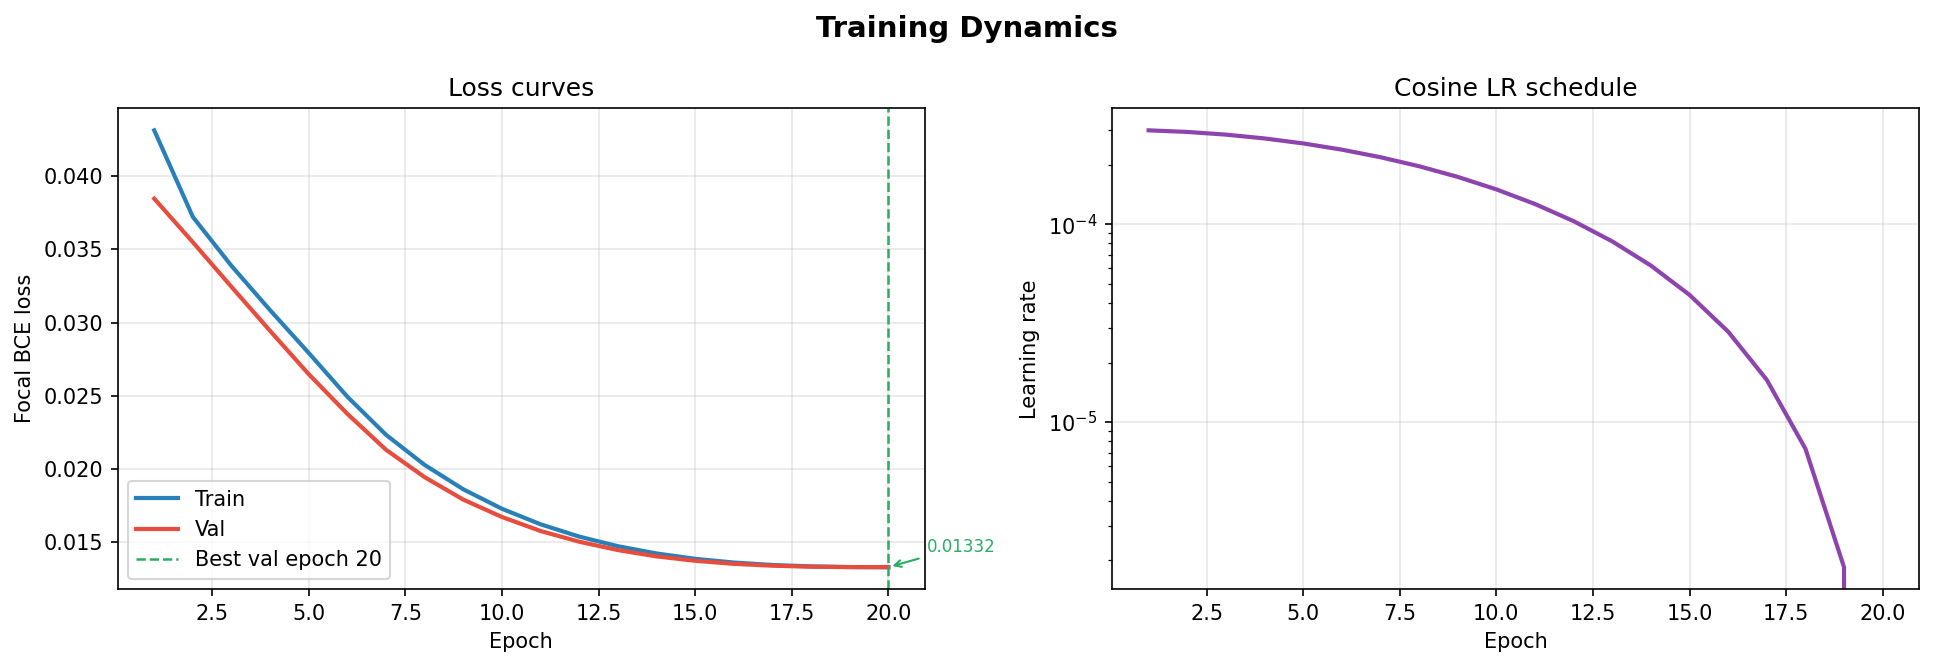
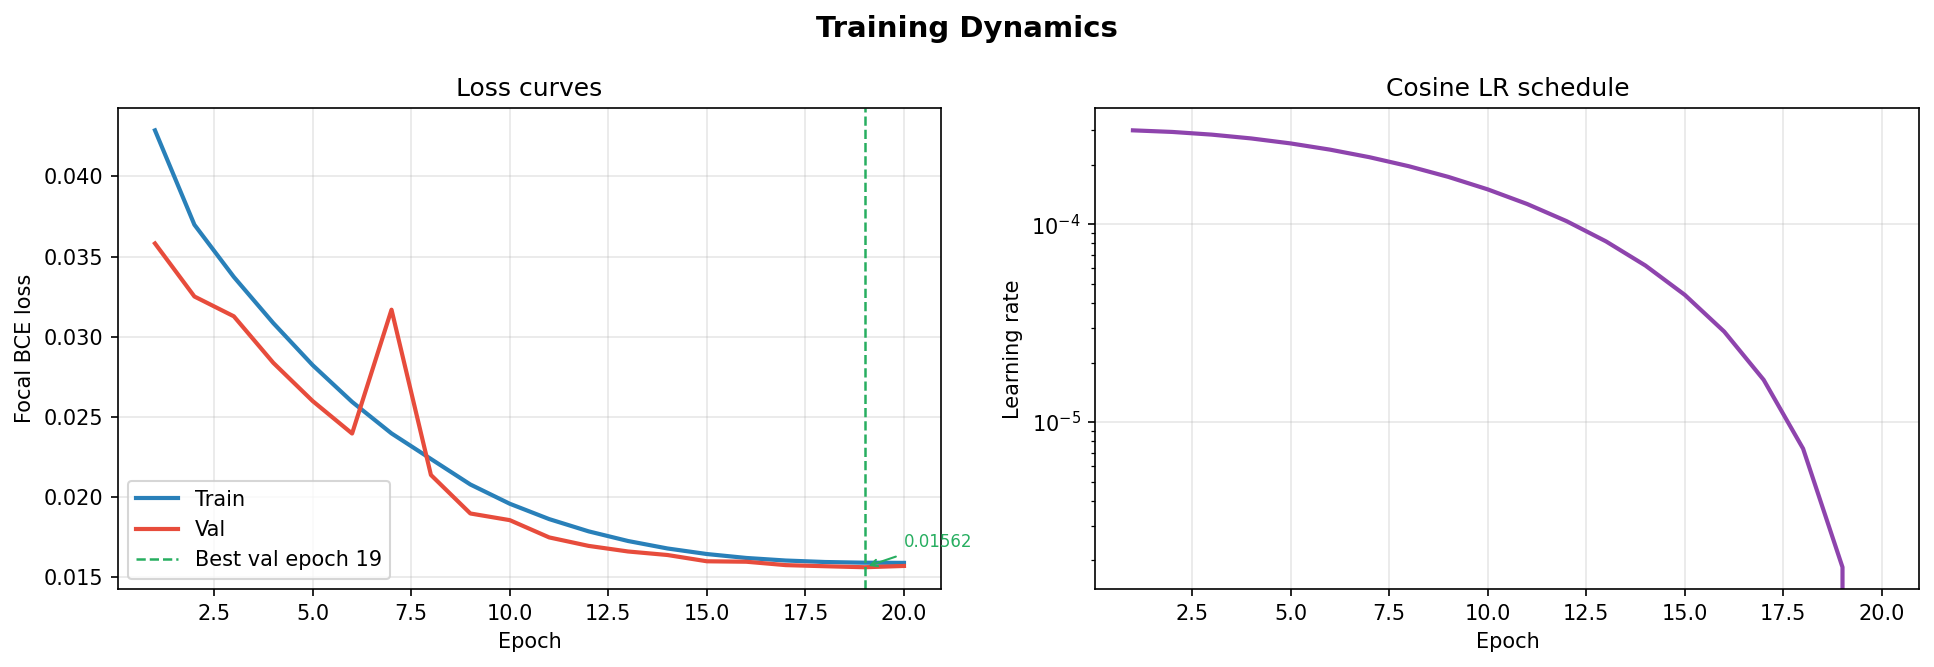
Refactor code structure for improved readability and maintainability

diff --git a/vicon2mano/real_data.py b/vicon2mano/real_data.py
@@ -77,6 +77,9 @@ class RealDataConfig:
     # Unit conversion: CSV stores mm, MANO works in metres.
     marker_scale: float = 1e-3
 
+    # Which hand to extract from wide-format CSVs ("left" or "right").
+    side: str = "left"
+
     # Augmentation — keep mild; real data already has natural occlusions.
     dropout_max: int = 3     # drop up to this many markers per frame
     ghost_max: int = 2       # add up to this many ghost markers
@@ -158,11 +161,12 @@ def _load_csv(
     csv_path: str | Path,
     cfg: RealDataConfig,
 ) -> list[tuple[np.ndarray, np.ndarray]]:
-    """Parse the labeled CSV and return a list of (markers_m, joint_pos) tuples.
+    """Parse a Vicon CSV and return (markers_m, joint_pos) tuples.
 
-    Only frames with at least cfg.min_joints observed MANO joints are kept.
-    Frames are returned in ascending frame-index order (preserving temporal
-    order for the train/val split).
+    Supports two formats, auto-detected from column names:
+    - Long format: columns ``frame, marker, x_mm, y_mm, z_mm``
+    - Wide format: Vicon Nexus export with columns ``_Frame, MarkerName_X, _Y, _Z, …``
+                   (one row per frame, all markers as column triplets)
     """
     try:
         import pandas as pd
@@ -173,6 +177,16 @@ def _load_csv(
         ) from exc
 
     df = pd.read_csv(csv_path)
+    if "_Frame" in df.columns:
+        return _load_wide_csv(df, cfg)
+    return _load_long_csv(df, cfg)
+
+
+def _load_long_csv(
+    df,
+    cfg: RealDataConfig,
+) -> list[tuple[np.ndarray, np.ndarray]]:
+    """Parse long-format CSV (frame, marker, x_mm, y_mm, z_mm)."""
     required = {"frame", "marker", "x_mm", "y_mm", "z_mm"}
     if not required.issubset(df.columns):
         raise ValueError(
@@ -182,14 +196,71 @@ def _load_csv(
     scale = cfg.marker_scale
     frames: list[tuple[np.ndarray, np.ndarray]] = []
 
-    for frame_id, group in df.groupby("frame", sort=True):
+    for _frame_id, group in df.groupby("frame", sort=True):
         marker_names = group["marker"].tolist()
         positions_m = group[["x_mm", "y_mm", "z_mm"]].to_numpy(np.float32) * scale
 
-        # Build (21, 3) joint position array; NaN where unobserved.
         joint_pos = np.full((21, 3), np.nan, dtype=np.float32)
         n_observed = 0
         for name, pos in zip(marker_names, positions_m):
+            if name in MARKER_TO_MANO:
+                joint_pos[MARKER_TO_MANO[name]] = pos
+                n_observed += 1
+
+        if n_observed < cfg.min_joints:
+            continue
+
+        frames.append((positions_m, joint_pos))
+
+    return frames
+
+
+def _load_wide_csv(
+    df,
+    cfg: RealDataConfig,
+) -> list[tuple[np.ndarray, np.ndarray]]:
+    """Parse wide-format Vicon Nexus CSV.
+
+    Column layout: ``_Frame, _Sub Frame, MarkerName_X, _Y, _Z, …``
+    Marker names contain ``_Left`` or ``_Right``; cfg.side selects which hand.
+    The suffix is stripped before looking up MARKER_TO_MANO.
+    """
+    suffix = f"_{cfg.side.capitalize()}"   # "_Left" or "_Right"
+    all_cols = list(df.columns)
+
+    # Find (name, x_idx, y_idx, z_idx) for each marker on the requested side
+    triplets: list[tuple[str, int, int, int]] = []
+    for i, col in enumerate(all_cols):
+        if col.endswith("_X") and suffix in col:
+            bare = col.replace("_X", "").replace(suffix, "")  # e.g. "Palm2"
+            triplets.append((bare, i, i + 1, i + 2))
+
+    if not triplets:
+        raise ValueError(
+            f"No '{suffix}' markers found in wide CSV. "
+            f"Available columns: {all_cols[:20]}"
+        )
+
+    scale = cfg.marker_scale
+    frames: list[tuple[np.ndarray, np.ndarray]] = []
+
+    for _, row in df.iterrows():
+        positions: list[np.ndarray] = []
+        names: list[str] = []
+        for bare, xi, yi, zi in triplets:
+            x, y, z = row.iloc[xi], row.iloc[yi], row.iloc[zi]
+            if not (np.isnan(x) or np.isnan(y) or np.isnan(z)):
+                positions.append([float(x), float(y), float(z)])
+                names.append(bare)
+
+        if not positions:
+            continue
+
+        positions_m = np.array(positions, dtype=np.float32) * scale
+
+        joint_pos = np.full((21, 3), np.nan, dtype=np.float32)
+        n_observed = 0
+        for name, pos in zip(names, positions_m):
             if name in MARKER_TO_MANO:
                 joint_pos[MARKER_TO_MANO[name]] = pos
                 n_observed += 1

diff --git a/vicon2mano/fitter.py b/vicon2mano/fitter.py
@@ -29,6 +29,16 @@ import torch
 import torch.nn as nn
 
 try:
+    import inspect
+    import numpy as _np
+    if not hasattr(inspect, "getargspec"):
+        inspect.getargspec = inspect.getfullargspec
+    # chumpy (a smplx dependency) uses removed numpy type aliases
+    _np_compat = {"int": int, "float": float, "bool": bool, "complex": complex,
+                  "object": object, "str": str, "unicode": str}
+    for _attr, _builtin in _np_compat.items():
+        if not hasattr(_np, _attr):
+            setattr(_np, _attr, _builtin)
     import smplx
     _SMPLX_AVAILABLE = True
 except ImportError:
@@ -166,6 +176,15 @@ class MANOFitter:
 
     def _load_model(self):
         model_path = Path(self.cfg.mano_model_path)
+        # smplx.create accepts either a .pkl file or a parent dir containing
+        # a mano/ subdirectory.  If the user points directly at the directory
+        # holding MANO_RIGHT.pkl / MANO_LEFT.pkl, resolve to the file.
+        if model_path.is_dir() and not (model_path / "mano").exists():
+            side_str = "RIGHT" if self.cfg.hand_side == "right" else "LEFT"
+            pkl = model_path / f"MANO_{side_str}.pkl"
+            if not pkl.exists():
+                raise FileNotFoundError(f"MANO weights not found at {pkl}")
+            model_path = pkl
         return smplx.create(
             str(model_path),
             model_type="mano",

diff --git a/scripts/train_labeler.py b/scripts/train_labeler.py
@@ -81,8 +81,8 @@ def _train(args):
     print("[train] loading dataset …", flush=True)
     if args.real_data:
         from vicon2mano.real_data import RealDataConfig, make_real_dataset
-        cfg = RealDataConfig(val_frac=args.val_frac)
-        print(f"[train] parsing CSV: {args.real_data}", flush=True)
+        cfg = RealDataConfig(val_frac=args.val_frac, side=args.side)
+        print(f"[train] parsing CSV: {args.real_data}  side={args.side}", flush=True)
         train_ds = make_real_dataset(args.real_data, split="train", cfg=cfg)
         val_ds = make_real_dataset(args.real_data, split="val", cfg=cfg)
         print(f"[train] real data: {args.real_data}", flush=True)
@@ -305,6 +305,8 @@ def _build_parser() -> argparse.ArgumentParser:
     trn.add_argument("--val-frac", type=float, default=0.02)
     trn.add_argument("--max-samples", type=int, default=None,
                      help="Cap training+val to this many frames (useful for quick smoke-tests).")
+    trn.add_argument("--side", default="left", choices=["left", "right"],
+                     help="Which hand to load from wide-format CSVs (default: left).")
     trn.add_argument("--no-amp", dest="amp", action="store_false", default=True,
                      help="Disable automatic mixed precision (AMP).")
 
